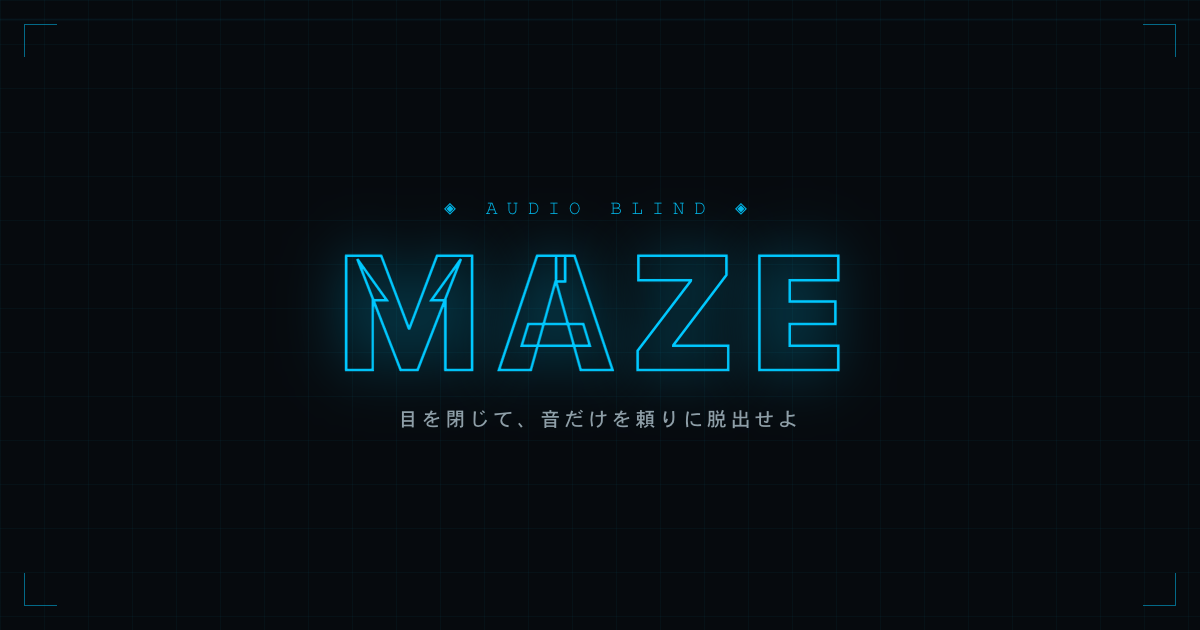
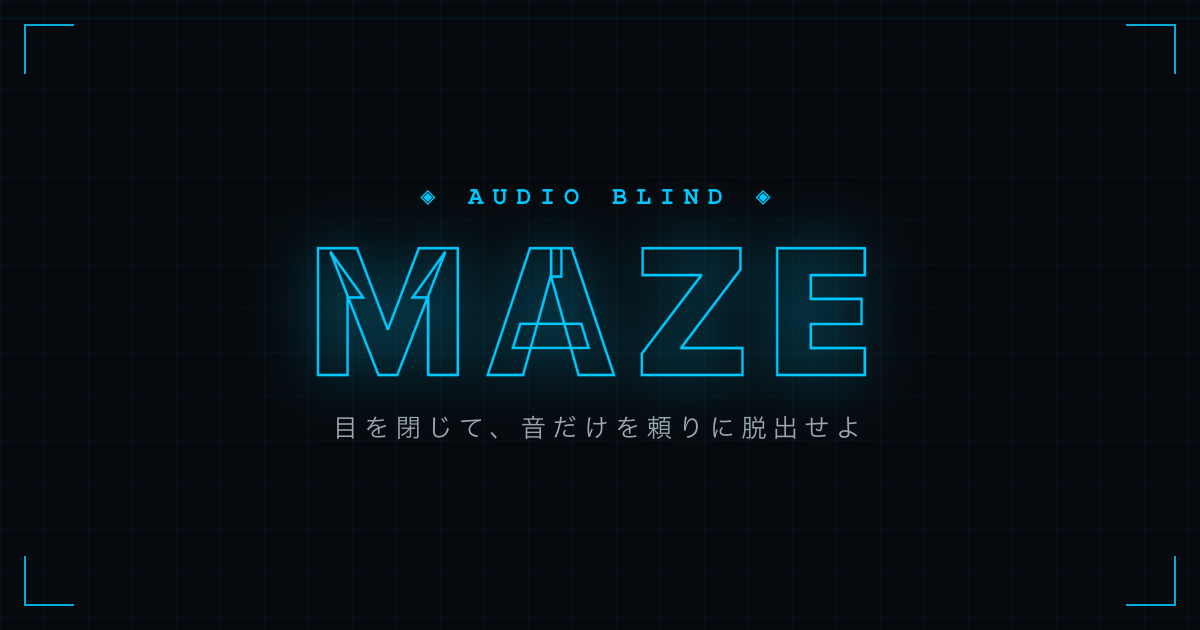
fix: OG画像を修正

diff --git a/src/og-main.tsx b/src/og-main.tsx
@@ -18,12 +18,12 @@ export function OgImage() {
               bottom: isTop ? undefined : 24,
               left: isLeft ? 24 : undefined,
               right: isLeft ? undefined : 24,
-              width: 32,
-              height: 32,
-              borderTop: isTop ? "1.5px solid rgba(0, 200, 255, 0.5)" : undefined,
-              borderBottom: isTop ? undefined : "1.5px solid rgba(0, 200, 255, 0.5)",
-              borderLeft: isLeft ? "1.5px solid rgba(0, 200, 255, 0.5)" : undefined,
-              borderRight: isLeft ? undefined : "1.5px solid rgba(0, 200, 255, 0.5)",
+              width: 48,
+              height: 48,
+              borderTop: isTop ? "2.5px solid rgba(0, 200, 255, 0.85)" : undefined,
+              borderBottom: isTop ? undefined : "2.5px solid rgba(0, 200, 255, 0.85)",
+              borderLeft: isLeft ? "2.5px solid rgba(0, 200, 255, 0.85)" : undefined,
+              borderRight: isLeft ? undefined : "2.5px solid rgba(0, 200, 255, 0.85)",
               pointerEvents: "none",
               zIndex: 1,
             }}
@@ -36,13 +36,23 @@ export function OgImage() {
         style={{ zIndex: 2, maxWidth: "none", width: "100%", padding: "0 60px" }}
       >
         <div className="maze-header">
-          <p className="maze-eyebrow" style={{ fontSize: "1.1rem", opacity: 0.9 }}>
+          <p
+            className="maze-eyebrow"
+            style={{ fontSize: "1.4rem", opacity: 1, fontWeight: 700, letterSpacing: "0.35em" }}
+          >
             ◈ AUDIO BLIND ◈
           </p>
-          <h1 className="maze-title">MAZE</h1>
+          <h1 className="maze-title" style={{ fontSize: "10rem" }}>
+            MAZE
+          </h1>
           <p
             className="maze-subtitle"
-            style={{ fontSize: "1.1rem", color: "rgba(200, 221, 232, 0.7)", marginTop: "1rem" }}
+            style={{
+              fontSize: "1.4rem",
+              color: "rgba(200, 221, 232, 0.75)",
+              marginTop: "1.2rem",
+              letterSpacing: "0.25em",
+            }}
           >
             目を閉じて、音だけを頼りに脱出せよ
           </p>
